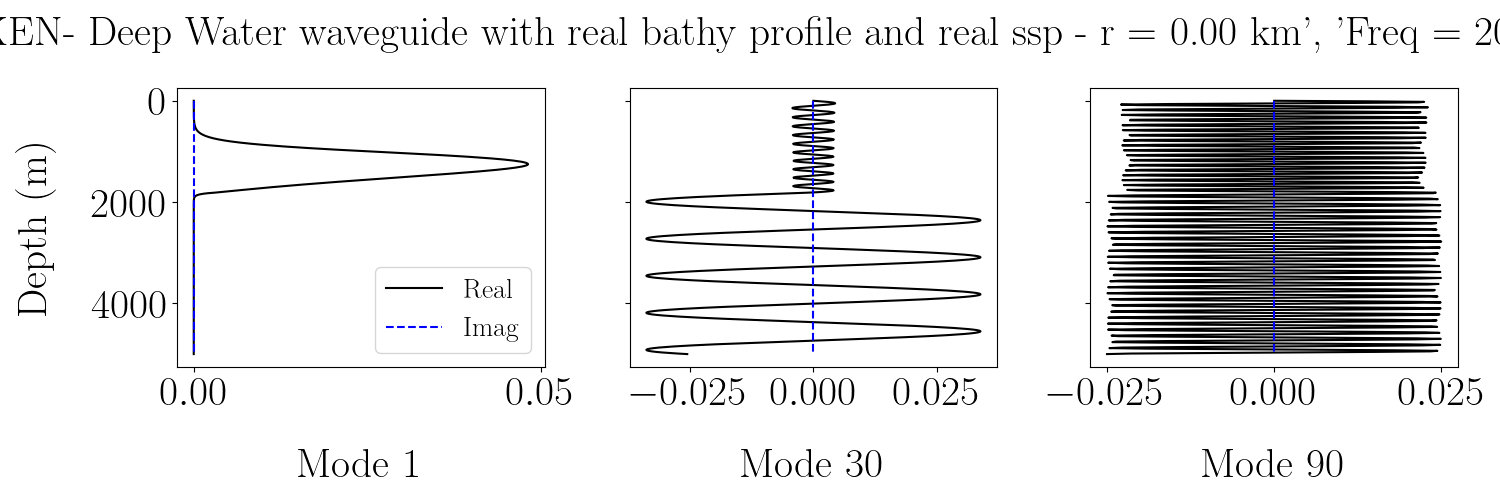
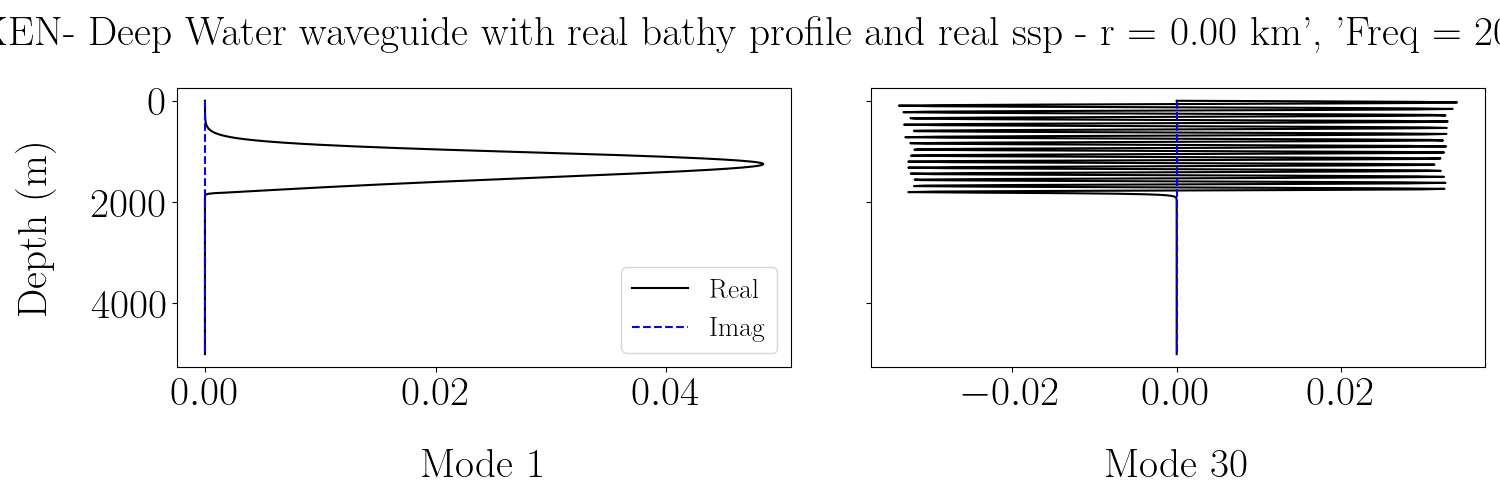
Add sediment props

diff --git a/source/global_constants.py b/source/global_constants.py
@@ -28,10 +28,59 @@ diagonal_loading = (
 p0 = 1e-6  # reference pressure in Pa
 c0 = 1500  # sound celerity in water (m/s)
 rho_w = 1000  # water density (kg/m3)
+
+### Sediment properties ###
+# Sand properties from Jensen et al. (2000) p.39
 sand_properties = {
     "rho": 1.9 * rho_w * 1e-3,  # Sand density (g/cm3)
     "c_p": 1650,  # P-wave celerity (m/s)
     "c_s": 0.0,  # S-wave celerity (m/s) TODO check and update
     "a_p": 0.8,  # Compression wave attenuation (dB/wavelength)
     "a_s": 2.5,
-}  # Shear wave attenuation (dB/wavelength) # Sand properties from Jensen et al. (2000) p.39
+}  # Shear wave attenuation (dB/wavelength)
+
+"""
+Regarding sediment properties, the classification is based on the Folk 7-class system from the European Marine Observation and Data Network (EMODnet) :
+https://www.emodnet-geology.eu/map-viewer/?p=seabed_substrate
+
+The associated values were derived from a table provided in the appendix of the attached document (p.57). This appendix is from Quiet-Oceans, the company where I interned a few months before the project. According to the document, the values are sourced from:
+[19] EMODnet, 2012: Seabed substrate data (version 28.6.2012) made available by the EMODnet (European Marine Observation and Data Network) Geology project, funded by the European Commission Directorate General for Maritime Affairs and Fisheries. EMODnet Geology.
+"""
+boulders_bedrock_properties = {
+    "rho": 2.5,  # Sand density (g/cm3)
+    "c_p": 3820,  # P-wave celerity (m/s)
+    "c_s": 0.0,  # S-wave celerity (m/s) TODO check and update
+    "a_p": 0.75,  # Compression wave attenuation (dB/wavelength)
+    "a_s": 0.0,  # Shear wave attenuation (dB/wavelength)
+}
+
+coarse_sediment_properties = {
+    "rho": 2.37,  # Sand density (g/cm3)
+    "c_p": 2122,  # P-wave celerity (m/s)
+    "c_s": 0.0,  # S-wave celerity (m/s) TODO check and update
+    "a_p": 0.88,  # Compression wave attenuation (dB/wavelength)
+    "a_s": 0.0,  # Shear wave attenuation (dB/wavelength)
+}
+
+mixed_sediment_properties = {
+    "rho": 2.03,  # Sand density (g/cm3)
+    "c_p": 1855,  # P-wave celerity (m/s)
+    "c_s": 0.0,  # S-wave celerity (m/s) TODO check and update
+    "a_p": 0.89,  # Compression wave attenuation (dB/wavelength)
+    "a_s": 0.0,  # Shear wave attenuation (dB/wavelength)
+}
+muddy_sand_sand_properties = {
+    "rho": 1.53,  # Sand density (g/cm3)
+    "c_p": 1708,  # P-wave celerity (m/s)
+    "c_s": 0.0,  # S-wave celerity (m/s) TODO check and update
+    "a_p": 0.91,  # Compression wave attenuation (dB/wavelength)
+    "a_s": 0.0,  # Shear wave attenuation (dB/wavelength)
+}
+
+mud_sand_sandy_mud_properties = {
+    "rho": 1.16,  # Sand density (g/cm3)
+    "c_p": 1517,  # P-wave celerity (m/s)
+    "c_s": 0.0,  # S-wave celerity (m/s) TODO check and update
+    "a_p": 0.37,  # Compression wave attenuation (dB/wavelength)
+    "a_s": 0.0,  # Shear wave attenuation (dB/wavelength)
+}

diff --git a/propa/rtf/rtf_localisation/uace_testcase/src/testcase_builder.py b/propa/rtf/rtf_localisation/uace_testcase/src/testcase_builder.py
@@ -361,7 +361,8 @@ class DeepWaterRealEnv(KrakenTestCase):
         rmax = 50 * 1e3
         min_phase_speed = 1000
         max_phase_speed = 20000
-        bott_props = g.sand_properties
+        # bott_props = g.sand_properties
+        bott_props = g.boulders_bedrock_properties
         bott_props["a_s"] = 0.0  # No shear wave
         zs = 5
 
@@ -513,7 +514,7 @@ class DeepWaterRealEnv(KrakenTestCase):
         # Run and plot diags if "demo" mode is selected
         if mode == "demo":
             self.run()
-            self.plot_diags(tl_min=80, tl_max=130, modes=[1, 30, 90])
+            self.plot_diags(tl_min=60, tl_max=120, modes=[1, 30, 90])
             # self.plot_diags(modes=[1, 30, 90])
 
 
